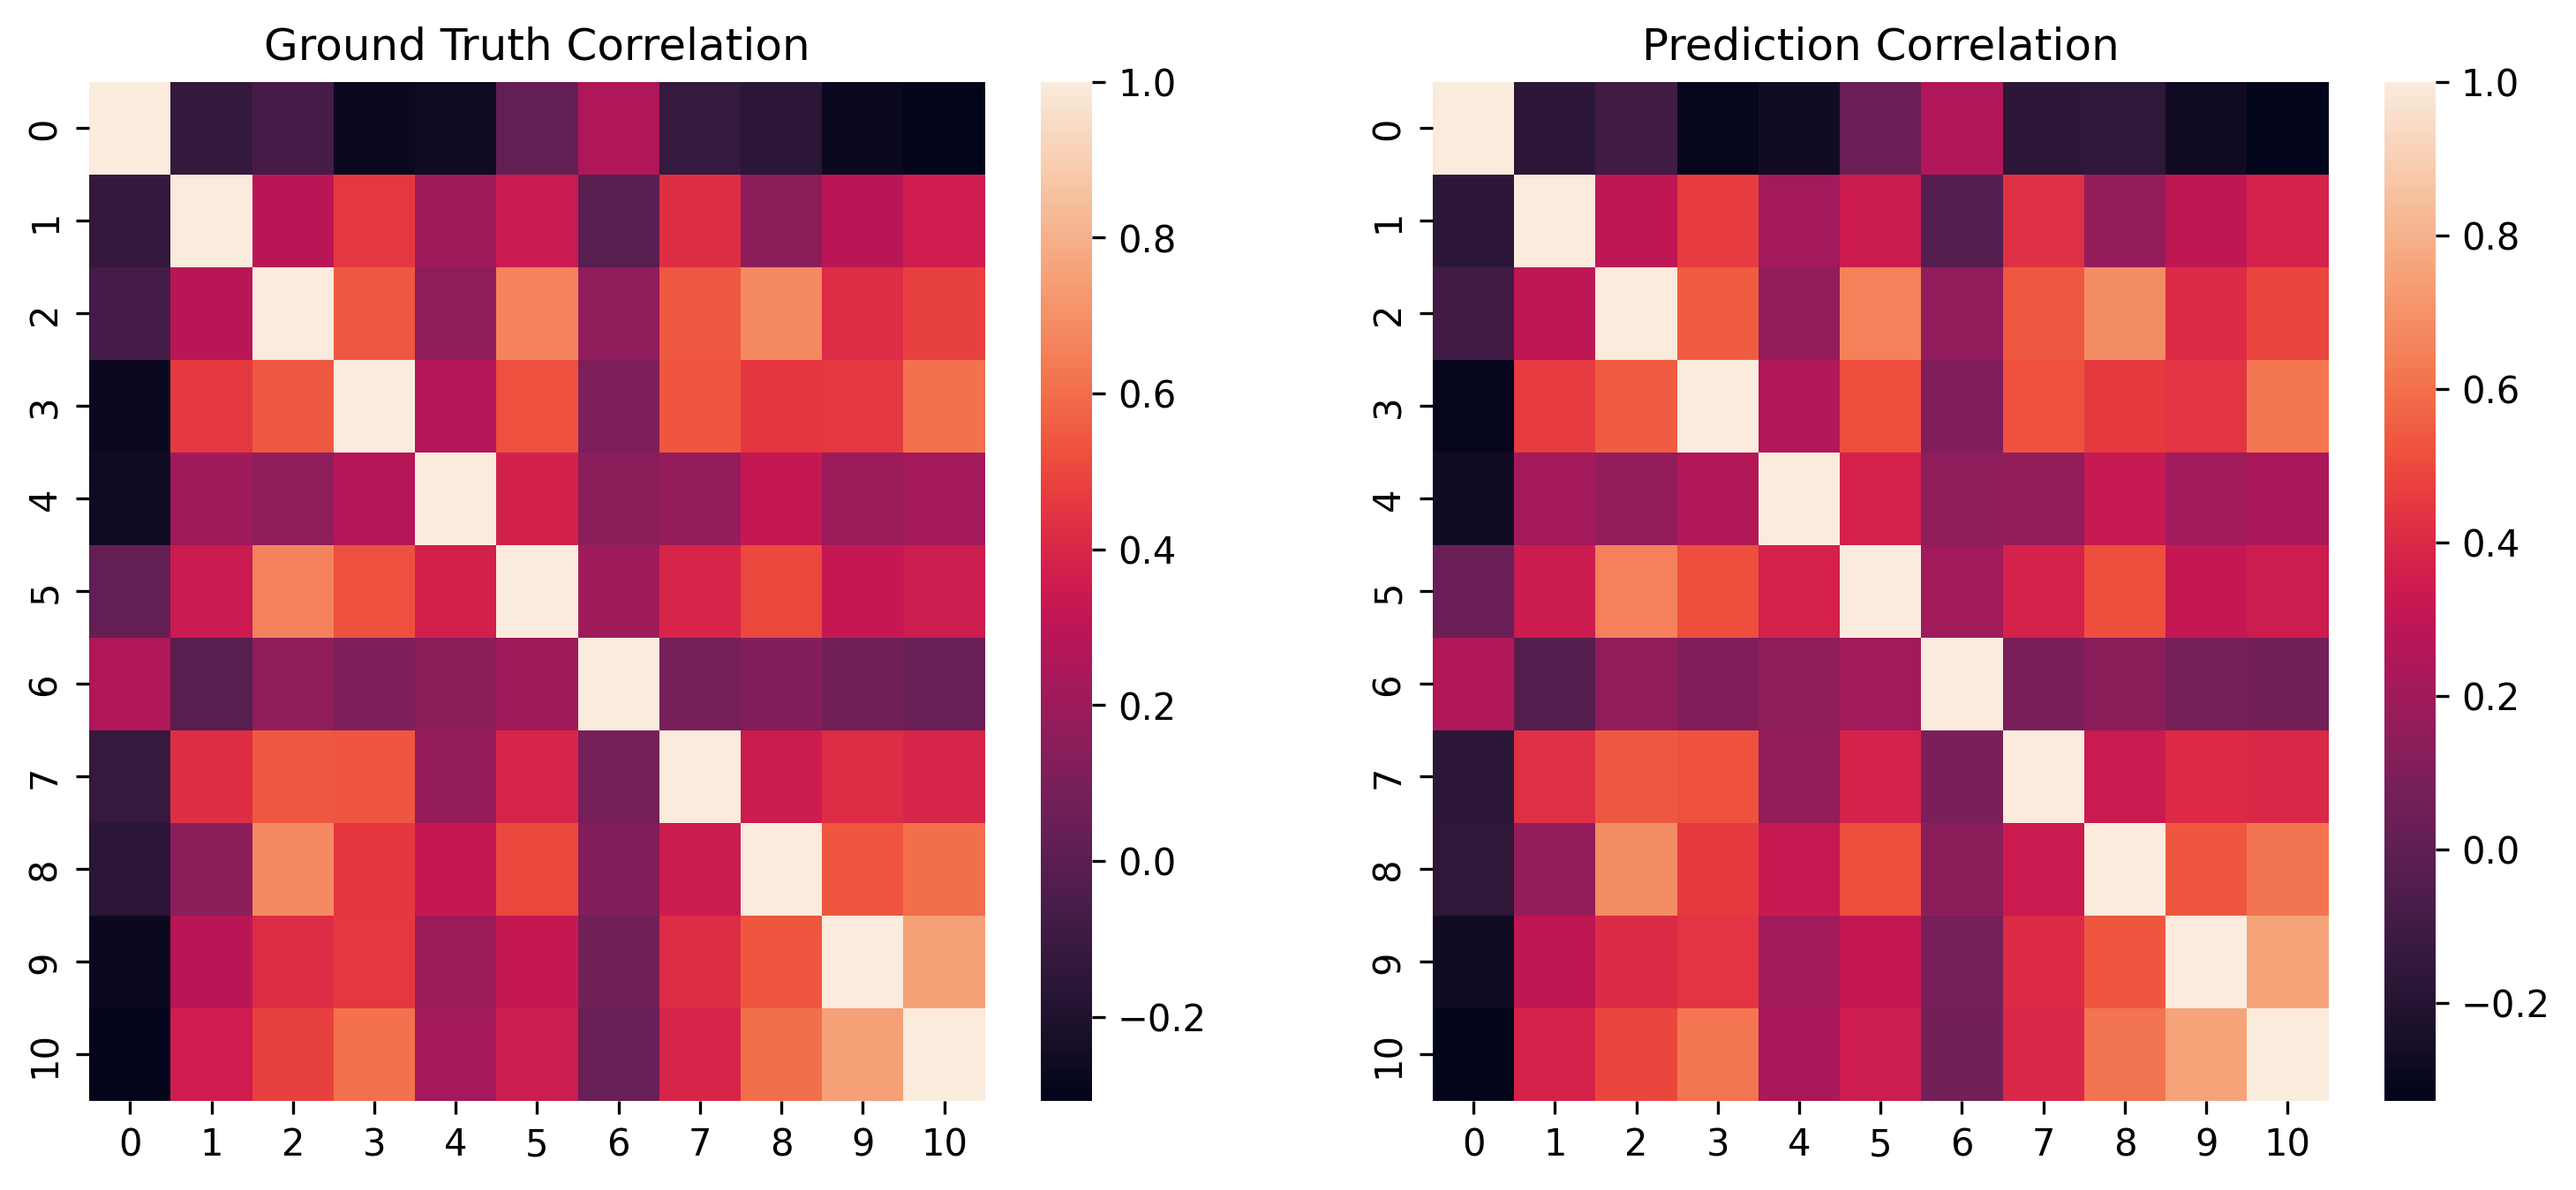
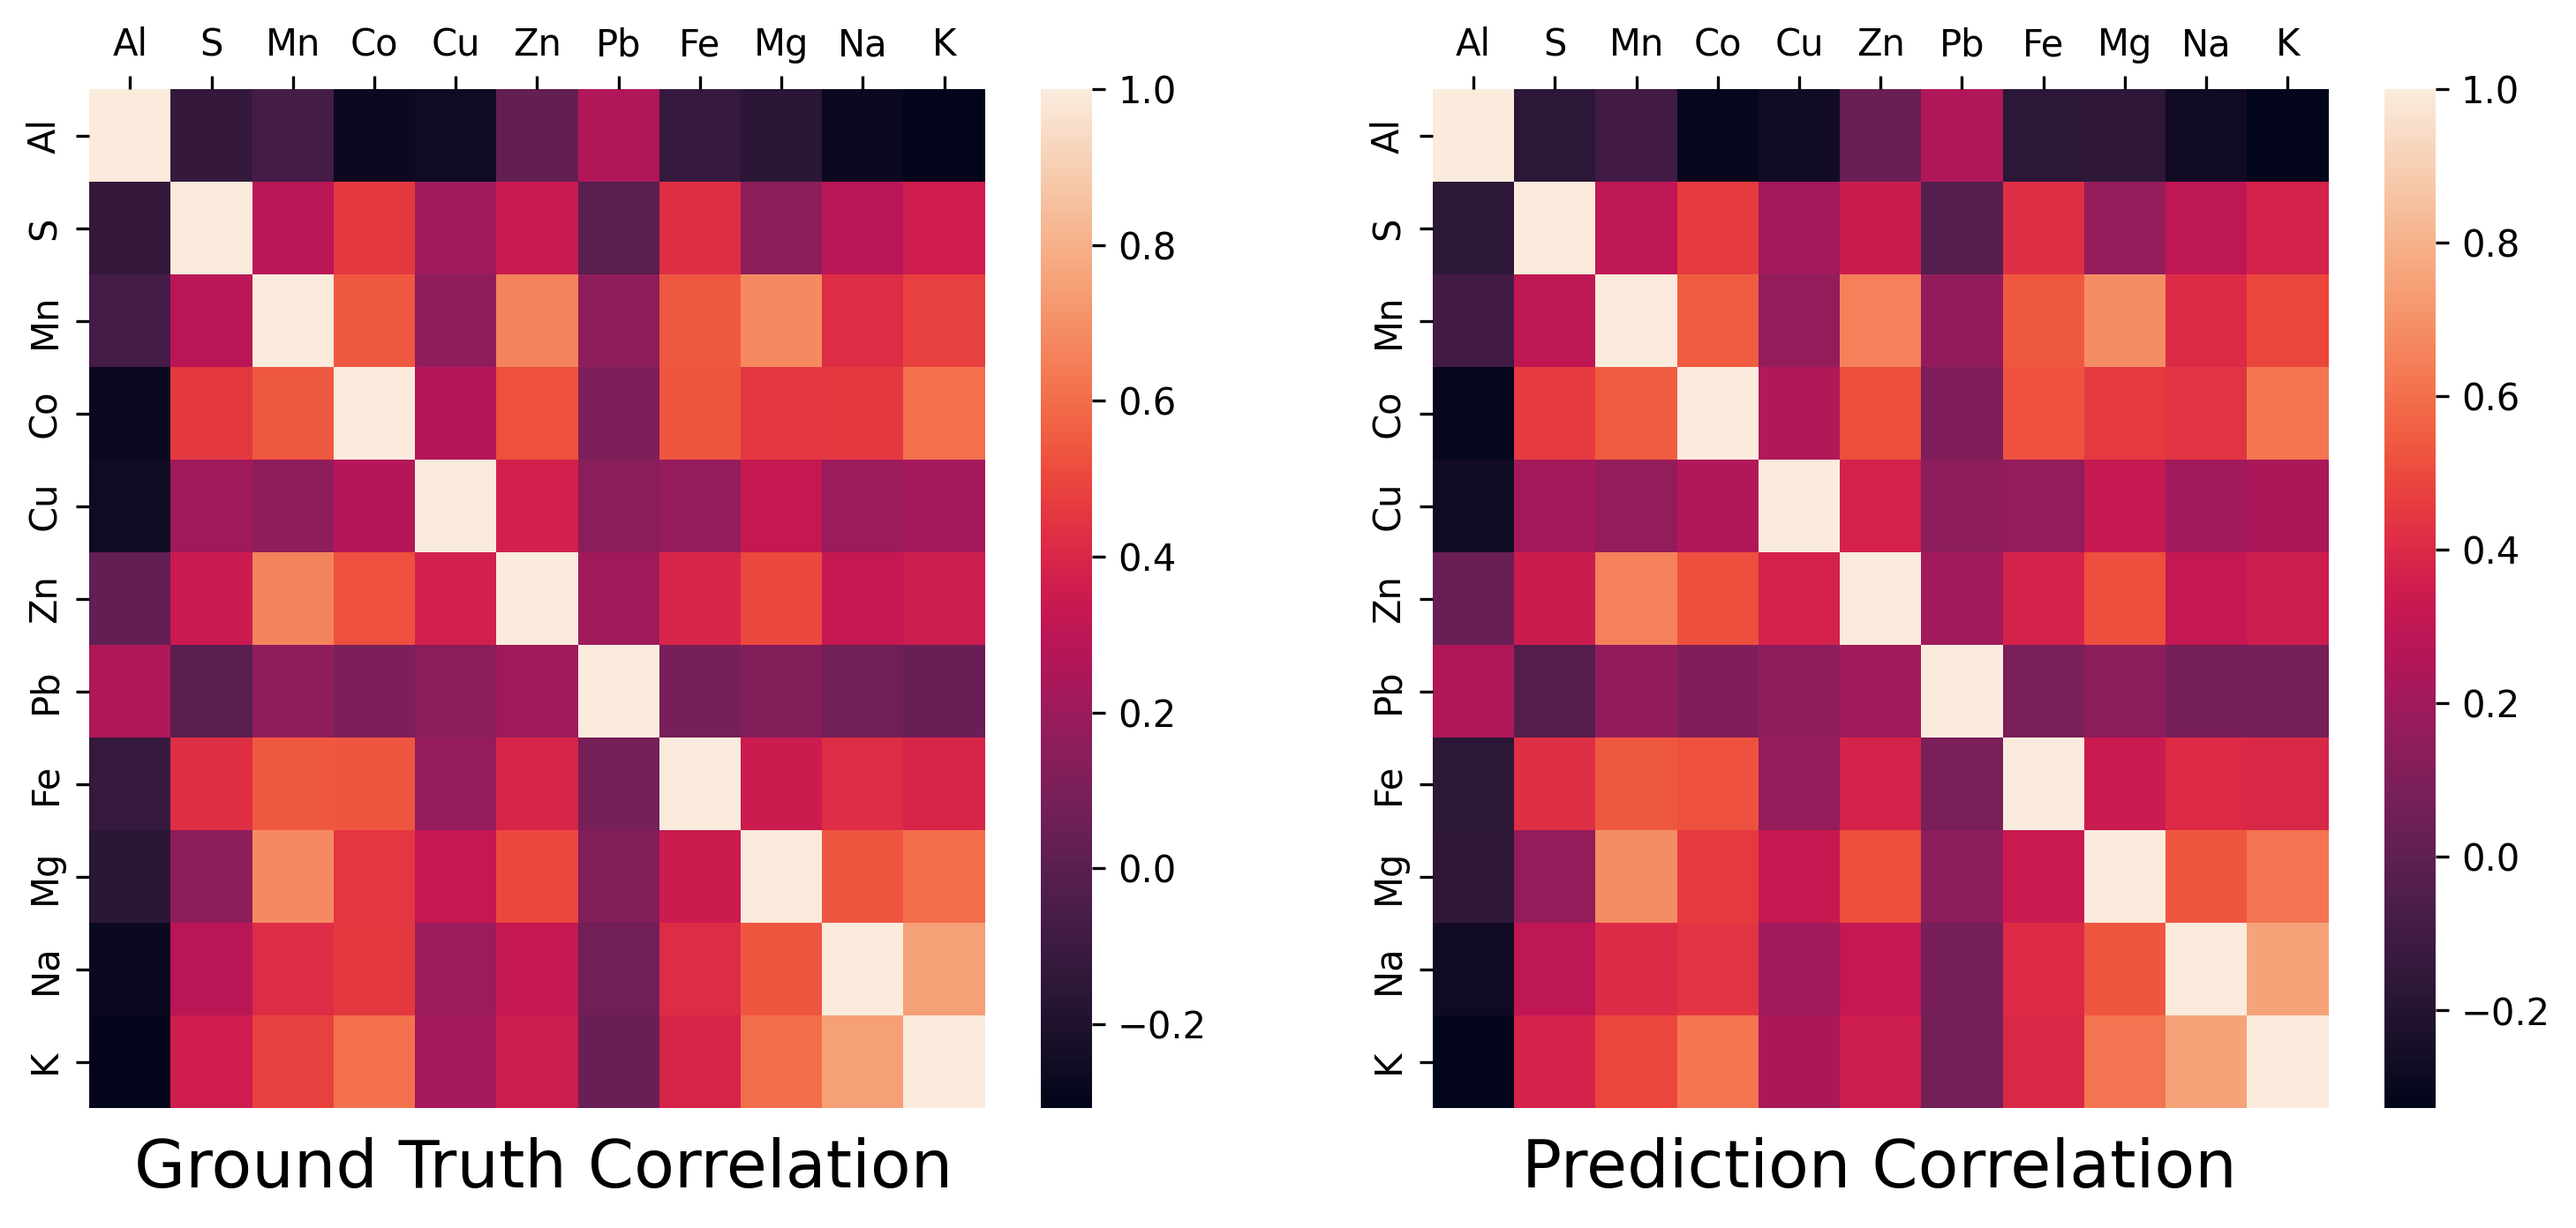
Refined figures

diff --git a/src/train_and_evaluate.py b/src/train_and_evaluate.py
@@ -268,14 +268,16 @@ def plot_pred_vs_gt(outputs, labels, elements_to_keep, xlabel='Ground truth', yl
 
         title = elements_to_keep[i]
 
-        text = f"R2={metrics['r2'][i]:.2f} \nMAE={metrics['mae'][i]:.2f}"
+        text = f"R$^2$={metrics['r2'][i]:.2f} \nMAE={metrics['mae'][i]:.2f}"
 
-        ax.text(min_val, max_val-0.05*(max_val-min_val), text)
+        ax.text(min_val, max_val-0.07*(max_val-min_val), text)
 
         ax.set_title(title, size=15)
 
-    fig.text(0.52, 0.03, xlabel, ha='center', size=18)
-    fig.text(0.08, 0.5, ylabel, va='center', rotation='vertical', size=18)
+    axes[-1].set_axis_off()
+
+    fig.text(0.52, 0.05, xlabel, ha='center', size=18)
+    fig.text(0.09, 0.5, ylabel, va='center', rotation='vertical', size=18)
 
     #plt.tight_layout()
     if path_to_save:
@@ -286,7 +288,7 @@ def plot_pred_vs_gt(outputs, labels, elements_to_keep, xlabel='Ground truth', yl
 def plot_residuals(outputs, labels, elements_to_keep, xlabel='True value', ylabel='Residual', path_to_save=None):
 
     n_dims = outputs.shape[1]
-    fig, axes = plt.subplots(2, n_dims//2 + 1, figsize=(16, 8), sharey=True)
+    fig, axes = plt.subplots(2, n_dims//2 + 1, figsize=(16, 10), sharey=True)
     axes = axes.flatten()
 
     y_max_max = (outputs-labels).max().max()
@@ -309,11 +311,13 @@ def plot_residuals(outputs, labels, elements_to_keep, xlabel='True value', ylabe
         y_max = (y_pred-y_true).max()
         y_min = (y_pred-y_true).min()
         text = 'Mean residual: \n' + str(np.round(mean_res, 3))
-        ax.text(min_val, y_max_max-0.4, text)
+        ax.text(min_val, y_max_max-0.45, text)
 
         ax.set_title(title, size=15)
 
-    fig.text(0.52, 0.03, xlabel, ha='center', size=18)
+    axes[-1].set_axis_off()
+
+    fig.text(0.52, 0.05, xlabel, ha='center', size=18)
     fig.text(0.08, 0.5, ylabel, va='center', rotation='vertical', size=18)
 
     #plt.tight_layout()
@@ -325,7 +329,7 @@ def plot_residuals(outputs, labels, elements_to_keep, xlabel='True value', ylabe
 def plot_error_distributions(outputs, labels, elements_to_keep, xlabel='Residual', ylabel='Count', path_to_save=None):
 
     n_dims = outputs.shape[1]
-    fig, axes = plt.subplots(2, n_dims//2 + 1, figsize=(16, 8), sharey=True)
+    fig, axes = plt.subplots(2, n_dims//2 + 1, figsize=(16, 8), sharey=True, sharex=True)
     axes = axes.flatten()
 
     y_max_max = (outputs-labels).max().max()
@@ -337,7 +341,8 @@ def plot_error_distributions(outputs, labels, elements_to_keep, xlabel='Residual
 
 
         residuals = y_pred-y_true
-        sns.histplot(residuals, kde=True, ax=ax)
+        sns.histplot(residuals, kde=False, ax=ax)
+        ax.set(ylabel='')
 
         title = elements_to_keep[i]
 
@@ -347,6 +352,8 @@ def plot_error_distributions(outputs, labels, elements_to_keep, xlabel='Residual
         # ax.text(min_val, y_max_max-0.4, text)
 
         ax.set_title(title, size=15)
+
+    axes[-1].set_axis_off()
 
     fig.text(0.52, 0.03, xlabel, ha='center', size=18)
     fig.text(0.08, 0.5, ylabel, va='center', rotation='vertical', size=18)
@@ -362,30 +369,39 @@ def plot_error_boxplot(outputs, labels, elements_to_keep, xlabel='', ylabel='Res
     residuals_all = outputs - labels
 
     fig = plt.figure(figsize=(10, 5))
-    sns.boxplot(data=residuals_all)
+    ax = sns.boxplot(data=residuals_all)
     fig.text(0.52, 0.03, xlabel, ha='center', size=18)
-    fig.text(0.08, 0.5, ylabel, va='center', rotation='vertical', size=18)
+    fig.text(0.07, 0.5, ylabel, va='center', rotation='vertical', size=18)
+    ax.set_xticklabels(elements_to_keep, size=15)
+
     if path_to_save:
         plt.savefig(path_to_save+'error_boxplot.png', dpi=300, bbox_inches="tight")
     plt.show()
     plt.close(fig)
 
 def plot_correlation_heatmaps(outputs, labels, elements_to_keep, xlabel='', ylabel='Residual', path_to_save=None):
-    sns.heatmap(np.abs(np.corrcoef(labels, rowvar=False) - np.corrcoef(outputs, rowvar=False)))
-    plt.show()
-    plt.close()
+
+    # sns.heatmap(np.abs(np.corrcoef(labels, rowvar=False) - np.corrcoef(outputs, rowvar=False)))
+    # plt.show()
+    # plt.close()
 
     fig = plt.figure(figsize=(12, 5))
 
     plt.subplot(1, 2, 1)
-    sns.heatmap(np.corrcoef(labels, rowvar=False), annot=False)
-    plt.title("Ground Truth Correlation")
+    ax = sns.heatmap(np.corrcoef(labels, rowvar=False), annot=False)
+    ax.set_xticklabels(elements_to_keep)
+    ax.set_yticklabels(elements_to_keep)
+    plt.tick_params(axis='both', which='major', labelbottom = False, bottom=False, top = True, labeltop=True)
+    #plt.title("Ground Truth Correlation")
 
     plt.subplot(1, 2, 2)
-    sns.heatmap(np.corrcoef(outputs, rowvar=False), annot=False)
-    plt.title("Prediction Correlation")
-    print('------------------')
-    print(np.sum(np.abs(np.corrcoef(labels, rowvar=False) - np.corrcoef(outputs, rowvar=False))))
+    ax = sns.heatmap(np.corrcoef(outputs, rowvar=False), annot=False)
+    ax.set_xticklabels(elements_to_keep)
+    ax.set_yticklabels(elements_to_keep)
+    plt.tick_params(axis='both', which='major', labelbottom = False, bottom=False, top = True, labeltop=True)
+    #plt.title("Prediction Correlation")
+
+    fig.text(0.47, 0.05, "Ground Truth Correlation                           Prediction Correlation", ha='center', size=18)
 
     if path_to_save:
         plt.savefig(path_to_save+'correlation_heatmap.png', dpi=300, bbox_inches="tight")

diff --git a/analysis/4_neural_network_validation.py b/analysis/4_neural_network_validation.py
@@ -153,11 +153,11 @@ print(torch.mean(difference, axis=0))
 
 # Visualise prediction against true:
 
-# plot_pred_vs_gt(to_numpy(outputs), to_numpy(labels), ELEMENTS_TO_KEEP, xlabel='Logarithmed ground truth', ylabel='Logarithmed prediction', path_to_save=FIGURES_PATH)
+plot_pred_vs_gt(to_numpy(outputs), to_numpy(labels), ELEMENTS_TO_KEEP, xlabel='Logarithmed ground truth', ylabel='Logarithmed prediction', path_to_save=FIGURES_PATH)
 
-# plot_residuals(to_numpy(outputs), to_numpy(labels), ELEMENTS_TO_KEEP, xlabel='True value (logarithmed)', path_to_save=FIGURES_PATH)
+plot_residuals(to_numpy(outputs), to_numpy(labels), ELEMENTS_TO_KEEP, xlabel='True value (logarithmed)', path_to_save=FIGURES_PATH)
 
-# plot_error_distributions(to_numpy(outputs), to_numpy(labels), ELEMENTS_TO_KEEP, xlabel='Residual', ylabel='Count', path_to_save=FIGURES_PATH)
+plot_error_distributions(to_numpy(outputs), to_numpy(labels), ELEMENTS_TO_KEEP, xlabel='Residual', ylabel='Count', path_to_save=FIGURES_PATH)
 
 plot_error_boxplot(to_numpy(outputs), to_numpy(labels), ELEMENTS_TO_KEEP, xlabel='', ylabel='Residual', path_to_save=FIGURES_PATH)
 
@@ -199,10 +199,10 @@ print('How about precision and recall?')
 precision, recall = compute_precision_and_recall(outputs_df)
 
 
-plot_confusion_matrix(true_labels = outputs_df['Real sample_id'], 
-                      closest_labels = outputs_df['Closest sample id'], 
-                      normalization_in_conf_mat = None, 
-                      path_to_save = FIGURES_PATH)
+# plot_confusion_matrix(true_labels = outputs_df['Real sample_id'], 
+#                       closest_labels = outputs_df['Closest sample id'], 
+#                       normalization_in_conf_mat = None, 
+#                       path_to_save = FIGURES_PATH)
 
 
 # Quality of prediction: confidence intervals
